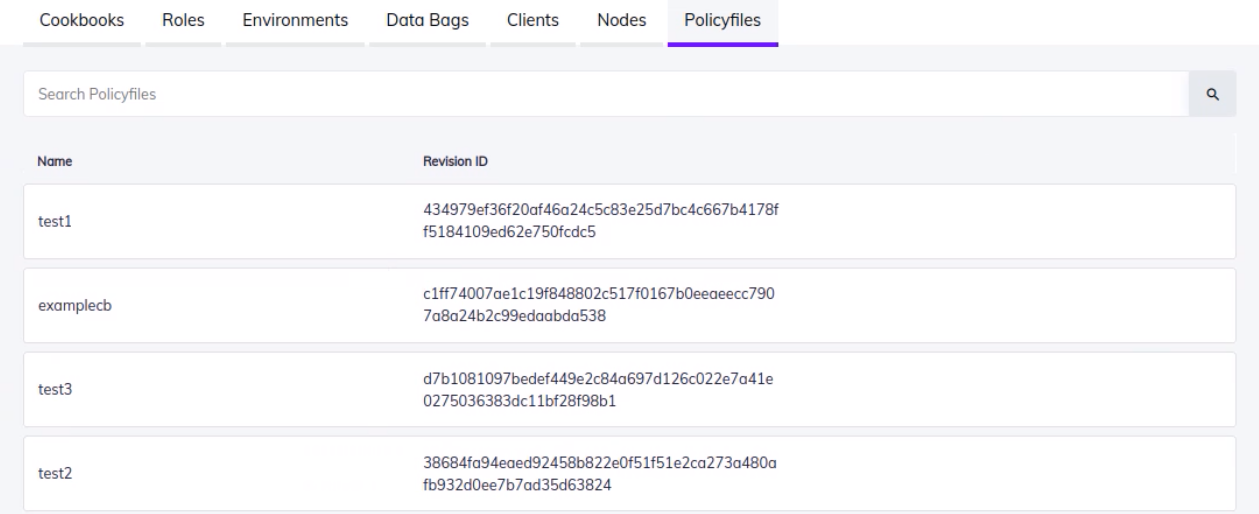
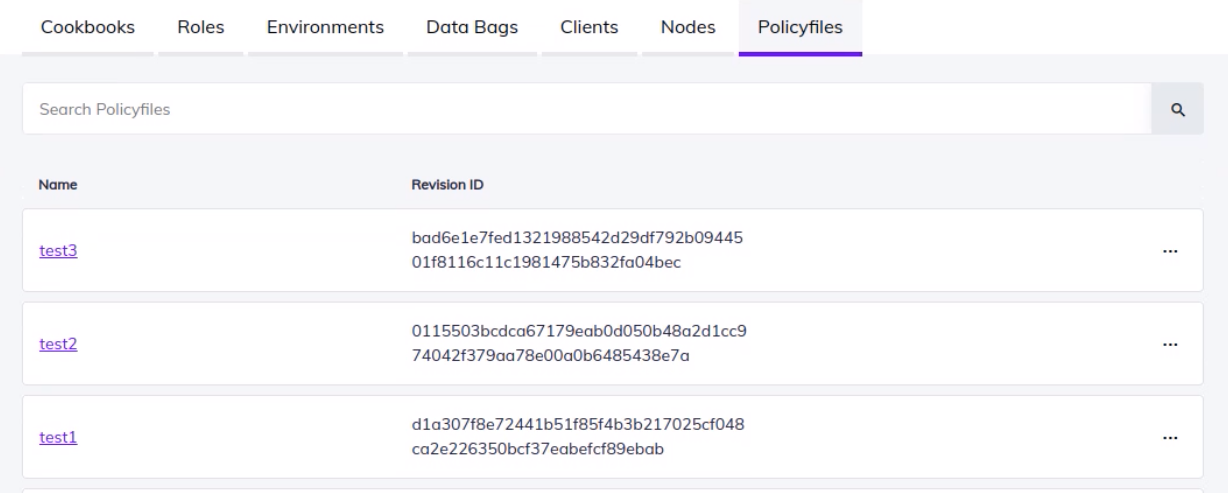
Attributes and Revision id section in Policyfiles of Chef Infra Server (#5396)
* added attributes and revision id section on policyfiles for chef infra server

* images added to the policyfiles newly added sections

* image updated

* updated the search for policyfiles screenshot in chef infra

* Update components/docs-chef-io/content/automate/chef_infra_server.md

* Update components/docs-chef-io/content/automate/chef_infra_server.md

* Update components/docs-chef-io/content/automate/chef_infra_server.md

* Update components/docs-chef-io/content/automate/chef_infra_server.md

* Update components/docs-chef-io/content/automate/chef_infra_server.md

* Update components/docs-chef-io/content/automate/chef_infra_server.md

* Update components/docs-chef-io/content/automate/chef_infra_server.md

diff --git a/components/docs-chef-io/content/automate/chef_infra_server.md b/components/docs-chef-io/content/automate/chef_infra_server.md
@@ -451,10 +451,13 @@ Delete individual existing nodes by selecting the ellipses icon {{< fontawesome 
 
 The Chef Infra Server integration lets you:
 
-- Search for a specific policyfiles
-- View all the policyfiles
-- Details of policyfiles
-- Delete policyfiles
+- Search for a specific Policyfiles
+- View all the Policyfiles
+- View the details of Policyfiles:
+  - Content
+  - Attributes
+  - Revision ID
+- Delete Policyfiles
 
 #### Search for Policyfiles
 
@@ -464,13 +467,25 @@ Use the search bar on the Policyfile tab (**Chef Infra Server > Policyfile**) to
 
 #### Details of Policyfiles
 
-Select a policyfile to view the details, that is the **Revision Id** and the **METADATA** of the policyfile. The **Content** tab contains the list of all the **Included Policies** and **Run List**.
+Select a Policyfile to view the **METADATA**, **Content**, **Attributes**, and **Revision ID** of that Policyfile.
 
 {{< figure src="/images/automate/details-of-policyfiles.png" alt="Details of Policyfiles">}}
 
+The **Content** tab contains the list of all the *included policies* and *run lists*, whereas the **Attributes** tab displays the *default* and the *override* attributes of a Policyfile.
+
+{{< figure src="/images/automate/attributes-tab-of-policyfiles.png" alt="Attributes tab of Policyfiles">}}
+
+You can **Expand** and **Collapse** the *default* and *override* attributes by selecting the option.
+
+{{< note >}}
+You can find the **Revision ID** window directly by selecting the ellipses icon of a Policyfile. Selecting the option opens a pop-up which contains the detailed revision ID.
+{{< /note >}}
+
+{{< figure src="/images/automate/revision-id-of-policyfiles.png" alt="Revision id of Policyfiles">}}
+
 #### Delete Policyfiles
 
-Delete individual policyfiles by selecting the ellipses icon {{< fontawesome class="fas fa-ellipsis-h" >}} and then **Delete**:
+Delete individual Policyfiles by selecting the ellipses icon {{< fontawesome class="fas fa-ellipsis-h" >}} and then **Delete**:
 
 {{< figure src="/images/automate/delete-policyfiles.png" alt="Delete Policyfiles">}}
 
